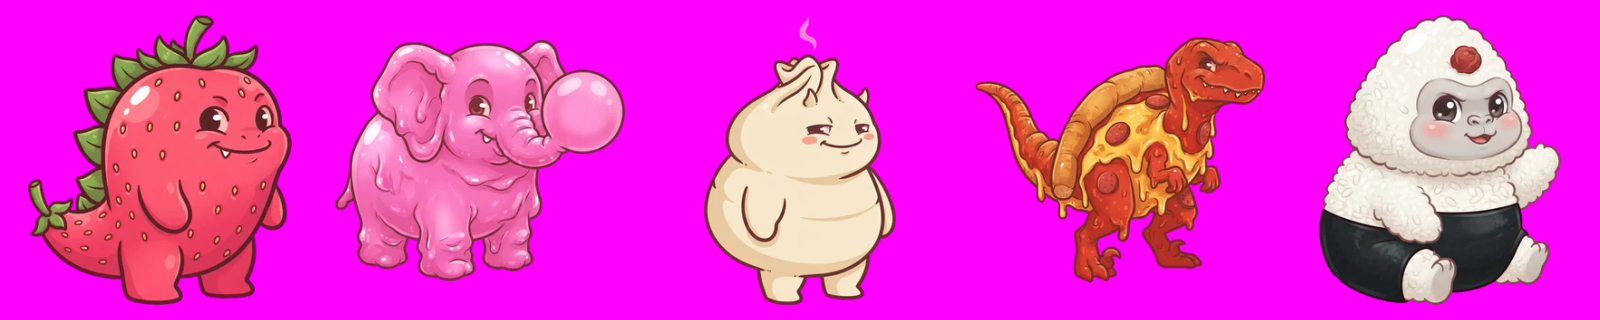
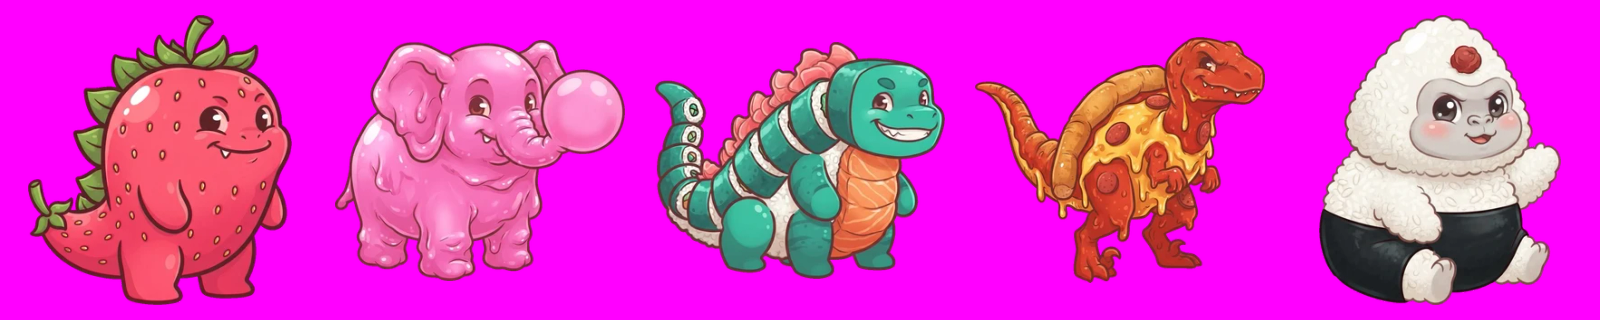
Cover art: Norigon replaces Dumplord, no extra arms or floating chopsticks; title sized to fit

Changed region(s): [[0.4062, 0.0625, 0.5938, 0.9688]]

diff --git a/src/scenes/TitleScene.ts b/src/scenes/TitleScene.ts
@@ -30,10 +30,10 @@ export class TitleScene extends Phaser.Scene {
     for (let i = 0; i < 12; i++) { g.fillStyle(0x0d0805, 0.06 * i); g.fillRect(0, 520 + i * 17, 1280, 17); }
     g.fillStyle(0x0d0805, 0.35); g.fillRect(0, 0, 1280, 8);
 
-    const title = this.add.text(372, 76, 'KITCHEN KAIJU', display(94, '#ffe9c7', { strokeThickness: 14, padding: { x: 8, y: 8 } })).setOrigin(0.5).setDepth(2);
+    const title = this.add.text(360, 76, 'KITCHEN KAIJU', display(86, '#ffe9c7', { strokeThickness: 14, padding: { x: 8, y: 8 } })).setOrigin(0.5).setDepth(2);
     withShadow(withGradient(title, '#fff6cf', '#ffb347'), 8);
     popIn(this, title, 1.3, 700);
-    withShadow(this.add.text(372, 150, 'Tiny monsters. Giant dinner.', body(24, '#ffd9a0', 900)).setOrigin(0.5).setDepth(2), 3);
+    withShadow(this.add.text(360, 146, 'Tiny monsters. Giant dinner.', body(24, '#ffd9a0', 900)).setOrigin(0.5).setDepth(2), 3);
 
     const save = loadStory();
     const storySub = save.stars.some(s => s) ? `Chapter ${Math.min(save.unlocked, CHAPTERS.length)}/${CHAPTERS.length} · ★ ${totalStars(save)}/${CHAPTERS.length * 3}` : 'Solo campaign · 12 chapters';
